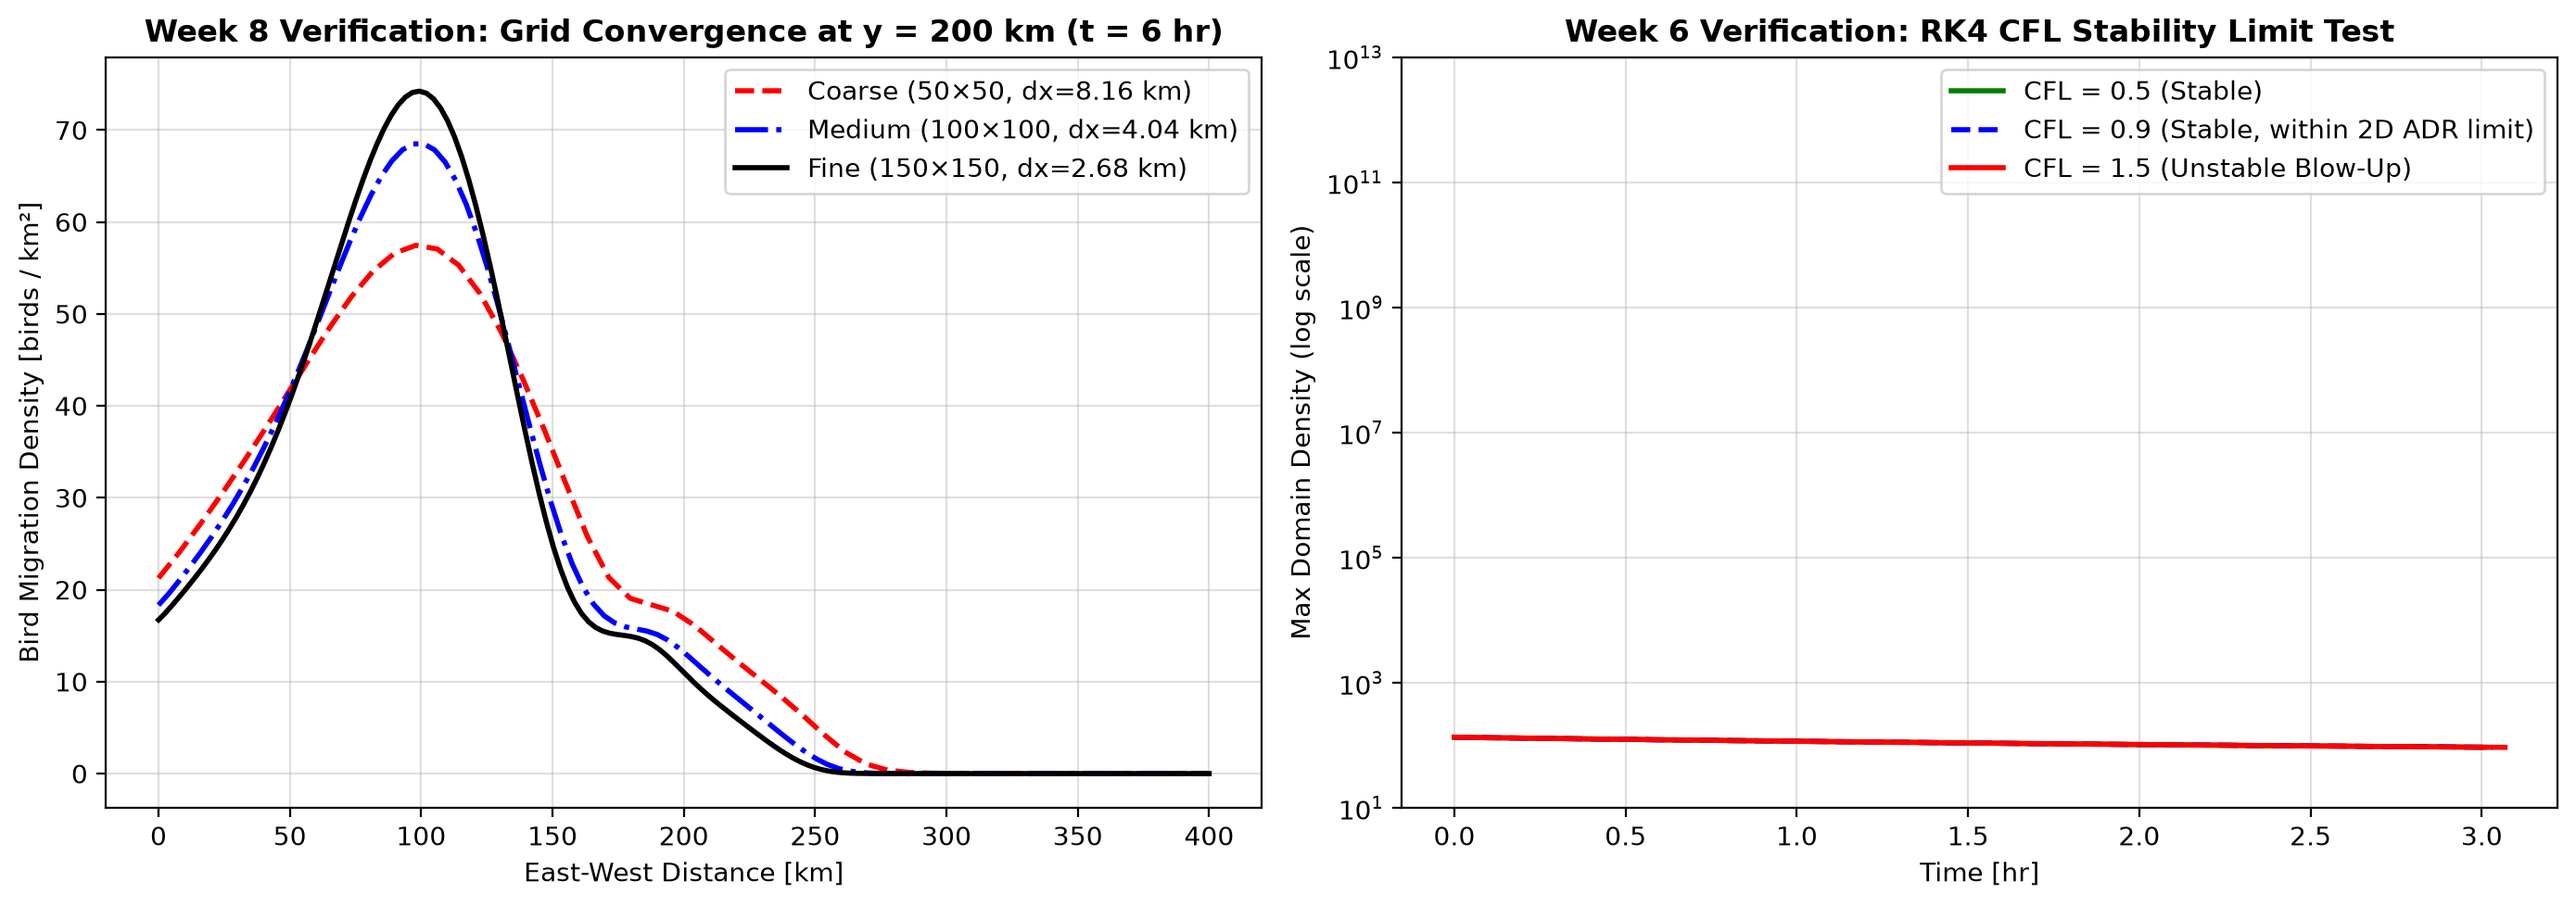
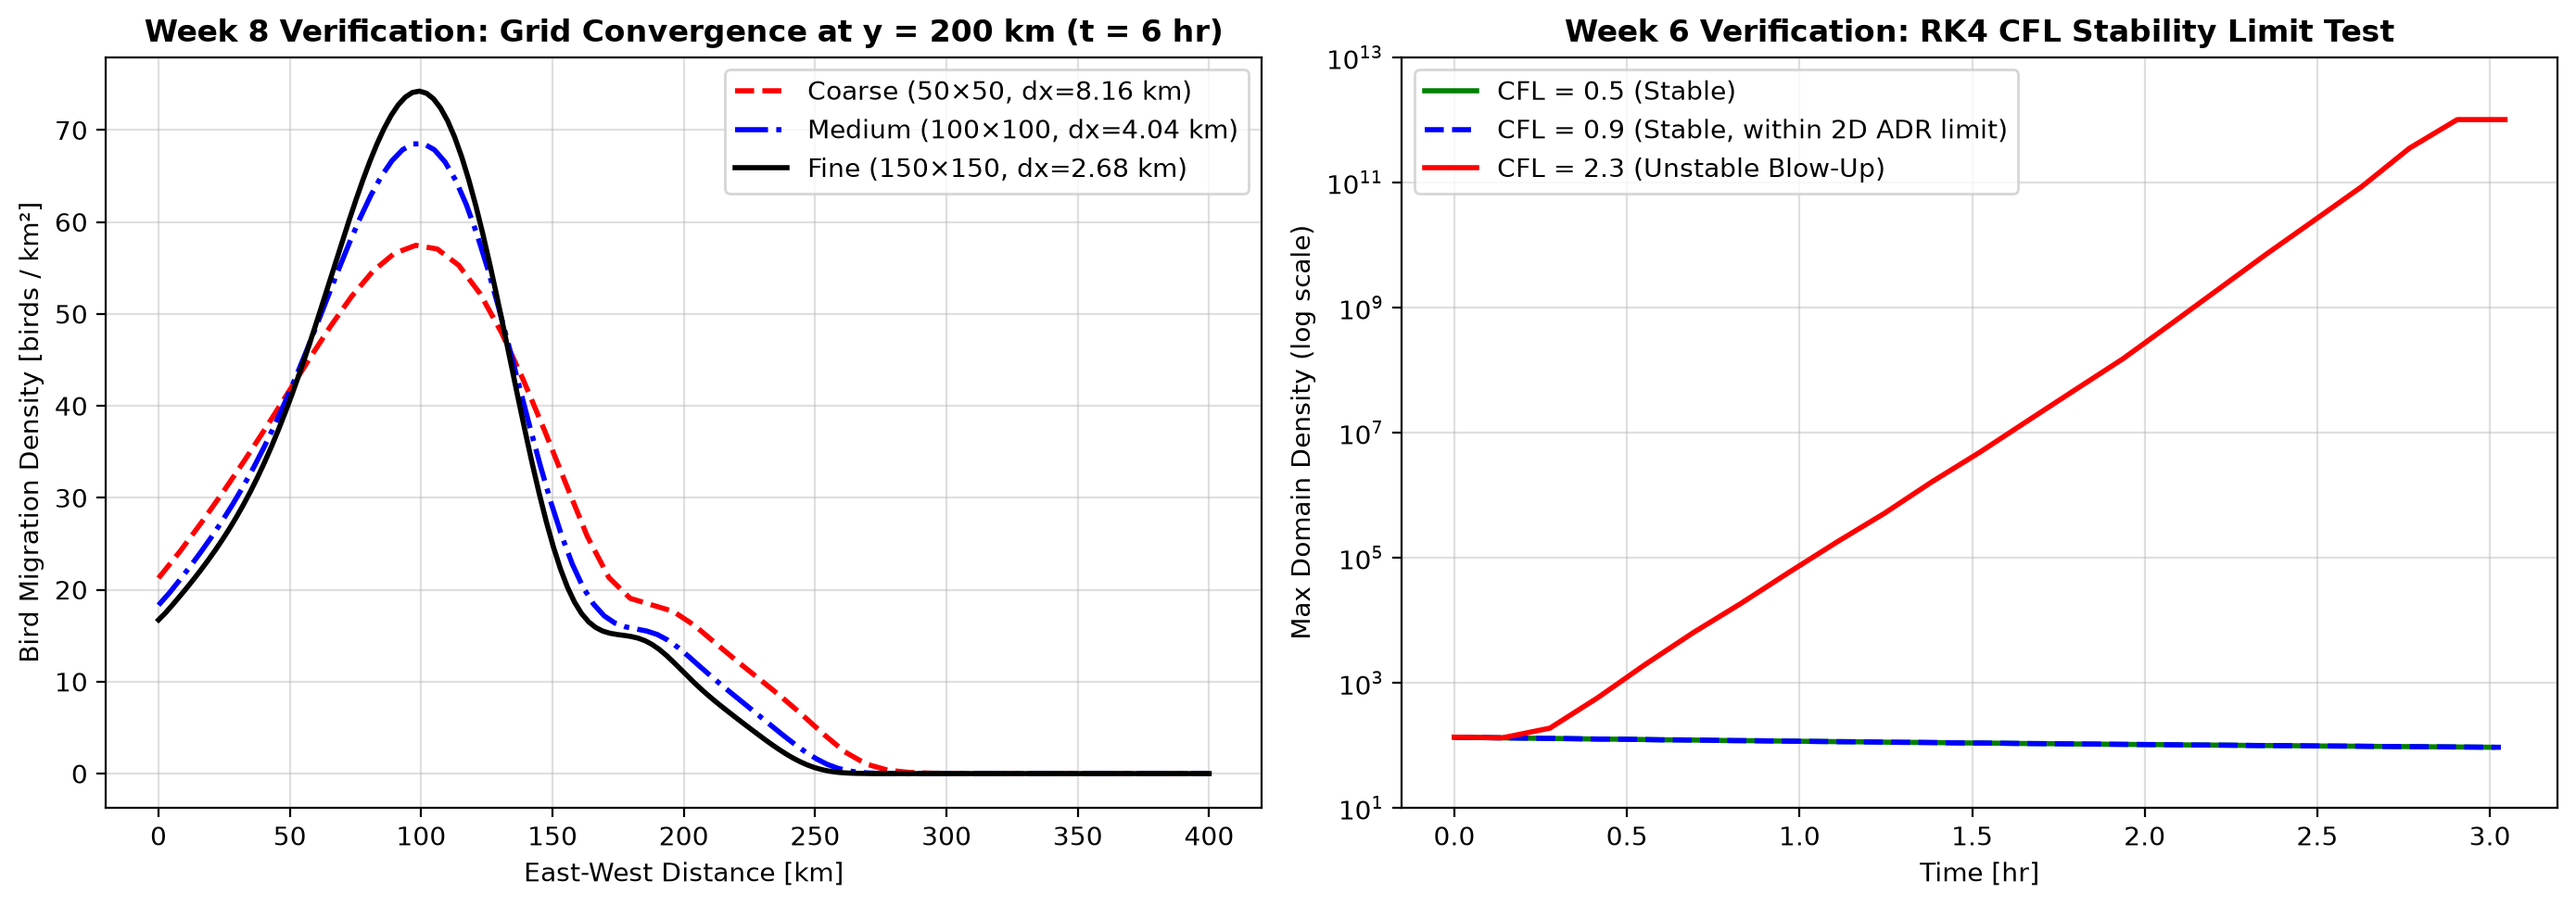
Add files via upload

diff --git a/main.py b/main.py
@@ -141,7 +141,7 @@ def run_cfd_verification():
     )
     rho0_t = dom_test.initial_density()
 
-    cfl_cases = [0.5, 0.9, 1.5]
+    cfl_cases = [0.5, 0.9, 2.3]
     cfl_histories = {}
     for cfl_val in cfl_cases:
         sol_cfl = MigrationSolver(dom_test, diffusion_coeff=8.0, cfl=cfl_val)
@@ -173,7 +173,7 @@ def run_cfd_verification():
     cfl_styles = {
         0.5: ("g-", "CFL = 0.5 (Stable)"),
         0.9: ("b--", "CFL = 0.9 (Stable, within 2D ADR limit)"),
-        1.5: ("r-", "CFL = 1.5 (Unstable Blow-Up)"),
+        2.3: ("r-", "CFL = 2.3 (Unstable Blow-Up)"),
     }
     for cfl_val in cfl_cases:
         t_arr, p_arr = cfl_histories[cfl_val]

diff --git a/README.md b/README.md
@@ -1,11 +1,11 @@
 # 2D CFD Modeling of Nocturnal Bird Migration Corridors
 **Course:** ENGR4576/5576 – Computational Fluid Dynamics  
-**Deliverable:** 5-Minute Project Progress Update & Working Prototype
+**GitHub Repository:** [EAMjavierescuela185/bird-migration-cfd](https://github.com/EAMjavierescuela185/bird-migration-cfd)
 
 ---
 
 ## 1. The Problem Statement
-Large-scale nocturnal bird migration behaves macroscopically like an active fluid continuum advected by synoptic atmospheric winds and guided by geographic boundaries. Inspired by BirdCast regional migration radar forecasts, this project develops a 2D Computational Fluid Dynamics (CFD) solver in Python to model the spatiotemporal evolution of nocturnal bird migration density $\rho(x, y, t)$ across a $400\text{ km} \times 400\text{ km}$ Mid-Atlantic flyway covering Eastern Pennsylvania, New Jersey, Delaware, and Maryland. Specifically, the model investigates how synoptic wind direction, coastline avoidance, mountain-ridge channeling, and dawn landing behavior interact to form high-density migratory bottlenecks.
+Large-scale nocturnal bird migration behaves like an active fluid continuum advected by atmospheric winds and guided by geographic boundaries. Inspired by BirdCast regional migration radar forecasts, this project develops a 2D CFD solver in Python to model the evolution of nocturnal bird migration density $\rho(x, y, t)$ across a $400\text{ km} \times 400\text{ km}$ Mid-Atlantic flyway covering Eastern Pennsylvania, New Jersey, Delaware, and Maryland. The model investigates how synoptic wind direction, coastline avoidance, mountain-ridge channeling, and dawn landing behavior interact to form high-density migratory bottlenecks.
 
 ---
 
@@ -14,48 +14,50 @@ Bird migration density $\rho(x, y, t)$ [$\text{birds/km}^2$] is governed by the 
 
 $$\frac{\partial \rho}{\partial t} + \frac{\partial (u_{\text{eff}} \rho)}{\partial x} + \frac{\partial (v_{\text{eff}} \rho)}{\partial y} = D \left( \frac{\partial^2 \rho}{\partial x^2} + \frac{\partial^2 \rho}{\partial y^2} \right) + S(x, y, t)$$
 
-* **Effective Velocity Field ($\vec{V}_{\text{eff}}$):** Combines an active southwest autumn flight heading ($\vec{V}_{\text{bird}}$ at $28\text{ km/hr}$) with partial atmospheric wind drift ($\alpha \vec{V}_{\text{wind}}$), smooth shoreline repulsion along the Atlantic Ocean and Chesapeake Bay (forming the Delmarva Peninsula), and topographic channeling along the Appalachian/Kittatinny Ridge.
-* **Spatial Discretization (Week 6):** Solved on a uniform 2D Cartesian mesh using **first-order upwind differencing** (flux splitting based on local velocity signs) for convective terms to eliminate dispersion oscillations and maintain $\rho \ge 0$, paired with **second-order central differencing** for flock dispersion ($D = 8.0\text{ km}^2/\text{hr}$).
+where $\vec{V}_{\text{eff}} = \vec{V}_{\text{bird}} + \alpha \vec{V}_{\text{wind}} + \vec{V}_{\text{coast}} + \vec{V}_{\text{ridge}}$.
+
+* **Effective Velocity Field ($\vec{V}_{\text{eff}}$):** Combines an active southwest autumn flight heading ($28\text{ km/hr}$) with partial wind drift ($\alpha \vec{V}_{\text{wind}}$), shoreline repulsion along the Atlantic Ocean and Chesapeake Bay (the Delmarva Peninsula), and topographic channeling along the Appalachian/Kittatinny Ridge.
+* **Spatial Discretization *(studied in Week 6)*:** Solved on a uniform 2D Cartesian mesh using first-order upwind differencing (flux splitting based on local velocity signs) for convective terms to eliminate dispersion oscillations and maintain $\rho \ge 0$, paired with second-order central differencing for flock dispersion ($D = 8.0\text{ km}^2/\text{hr}$).
 * **Boundary & Source Conditions:** A time-varying Dirichlet inflow boundary at the northern edge ($y = 400\text{ km}$) models migrants entering from NY and New England overnight ($t \le 5.5\text{ hr}$), zero-gradient Neumann conditions govern outflow boundaries, and a dawn landing sink term ($S < 0$ for $t \ge 6.5\text{ hr}$) depletes airborne density exclusively over land.
-* **Time Integration & Stability (Week 6):** Integrated explicitly using the **4-stage Runge-Kutta (RK4)** method with time steps bounded by the 2D advection-diffusion CFL stability criterion.
-* **Numerical Verification (Week 8):** Validated through a 3-grid convergence study ($50\times 50$, $100\times 100$, and $150\times 150$ nodes) with Richardson extrapolation and a CFL stability sweep.
+* **Time Integration & Stability *(studied in Week 6)*:** Integrated explicitly using the 4-stage Runge-Kutta (RK4) method with time steps bounded by the 2D advection-diffusion CFL stability criterion.
+* **Numerical Verification *(studied in Week 6 & Week 8)*:** Validated through a 3-grid convergence study ($50\times 50$, $100\times 100$, and $150\times 150$ nodes) with Richardson extrapolation and a CFL stability sweep.
 
 ---
 
 ## 3. What Has Been Accomplished
-* **Modular Python Codebase Built:** Implemented `domain.py` (Mid-Atlantic coastline/bay masks, Appalachian ridge profile, bounded velocity fields, and dusk stopover initial conditions), `solver.py` (2D upwind + central finite-difference residual, RK4 integrator, northern inflow BC, and dawn landing sink), and `main.py` (automated scenario comparison and verification suite).
-* **Domain & Full 9-Hour Nocturnal Simulation Completed:** Verified the Mid-Atlantic geographic domain and simulated full overnight evolution from dusk takeoff ($t = 0\text{ hr}$) through peak nocturnal passage ($t = 3\text{–}6\text{ hr}$) and post-dawn landing ($t = 9\text{ hr}$).
+* **Modular Python Solver Built:** Implemented `domain.py` (Mid-Atlantic coastline/bay masks, Appalachian ridge profile, bounded velocity fields, and dusk stopover initial conditions), `solver.py` (2D upwind + central finite-difference residual, RK4 integrator, northern inflow BC, and dawn landing sink), and `main.py` (scenario comparison and numerical verification suite).
+* **9-Hour [3 hr. frames] Nocturnal Simulation Completed:** Simulated overnight migration from dusk takeoff ($t = 0\text{ hr}$) through peak nocturnal passage ($t = 3\text{–}6\text{ hr}$) and post-dawn landing ($t = 9\text{ hr}$).
 
 ![Domain Verification](step1_domain_verification.png)
 *Figure 1: Mid-Atlantic domain geography, dusk takeoff stopover pulses (left), and bounded effective migration velocity field (right).*
 
 ![9-Hour Migration Evolution](step2_migration_evolution.png)
-*Figure 2: Spatiotemporal evolution of nocturnal bird migration density over a 9-hour cycle.*
+*Figure 2: Spatiotemporal evolution of nocturnal bird migration density over a 9-hour cycle (3-hour frames).*
 
 * **Weather Scenario Comparison Completed:** Generated comparative BirdCast-style density/vector maps (`fig1_weather_scenarios.png`) and airborne population time-series (`fig2_migration_diagnostics.png`) contrasting favorable NW tailwinds against an offshore westerly crosswind.
 
 ![Weather Scenarios](fig1_weather_scenarios.png)
-*Figure 3: Comparison of favorable NW tailwinds (Scenario A) vs. offshore westerly crosswind coastal funneling onto the Delmarva Peninsula (Scenario B) at t = 6.0 hr.*
+*Figure 3: Weather impact on nocturnal migration corridors at t = 6.0 hr comparing Scenario A (NW Tailwinds) and Scenario B (Westerly Crosswind coastal funneling onto the Delmarva Peninsula).*
 
 ![Migration Diagnostics](fig2_migration_diagnostics.png)
-*Figure 4: Total airborne migrants aloft (left) and peak flyway concentration over time (right).*
+*Figure 4: Quantitative time-series of total airborne migrants over the region (left) and peak flyway concentration vs. time (right).*
 
-* **CFD Verification Completed:** Executed a 3-grid convergence study across $50\times 50$, $100\times 100$, and $150\times 150$ meshes alongside an RK4 CFL stability sweep (`fig3_cfd_verification.png`).
+* **CFD Verification Completed:** Executed a 3-grid convergence study across $50\times 50$, $100\times 100$, and $150\times 150$ meshes alongside an RK4 CFL stability limit test (`fig3_cfd_verification.png`).
 
 ![CFD Verification](fig3_cfd_verification.png)
-*Figure 5: Week 8 grid convergence cross-section at y = 200 km (left) and Week 6 RK4 CFL stability limit verification (right).*
+*Figure 5: Week 8 grid convergence cross-section at y = 200 km (left) and Week 6 RK4 CFL stability limit test showing stable trajectories (CFL = 0.5, 0.9) vs. unstable blow-up (CFL = 2.3) (right).*
 
 ---
 
 ## 4. What Needs to Be Done
-1. **CFL Upper-Bound Refinement:** Run one additional high-CFL case (`CFL = 2.3`) in `main.py` so the RK4 instability blow-up curve is explicitly displayed alongside the stable trajectories.
-2. **Final Repository Polish:** Ensure clean code comments, docstrings, and one-command reproducibility (`python main.py`).
-3. **Final Technical Report:** Write the final report interpreting the physical flow features, Grid Convergence Index (GCI) metrics, and modeling limitations ahead of the **November 29** deadline.
+1. **CFL Upper-Bound Refinement:** Finalize documentation of the high-CFL instability case (`CFL = 2.3`) in `main.py` alongside the stable `CFL = 0.5` and `0.9` trajectories.
+2. **Update Current Data Comparison:** Incorporate current live data and metrics to simulated travel fields of a select bird species.
+3. **Final Technical Report:** Compile the final project report discussing physical flow features, Grid Convergence Index (GCI) metrics, and modeling limitations.
 
 ---
 
-## 5. What Is Stopping You (Current Bottlenecks)
-There are **no technical or software blockers**—the Python solver and visualization pipeline are fully functional and run in under 10 seconds locally. The only remaining constraints are time management before the November 29 deadline while balancing other coursework, and minor parameter polishing for the final report.
+## 5. Current Bottlenecks
+The Python solver and visualization pipeline are fully functional and execute in under 10 seconds locally. Remaining constraints include adjusting known solvers and equations to incorporate additional variables and finer fields, comparing against accurate tracking data, and further refining visualization details to resemble advanced radar forecast simulations.
 
 ---
 
@@ -67,7 +69,7 @@ There are **no technical or software blockers**—the Python solver and visualiz
 | **Medium Grid ($100\times 100$)** | $4.04\text{ km}$ | $68.6\text{ birds/km}^2$ | Resolves Appalachian ridge & Delmarva bottleneck |
 | **Fine Grid ($150\times 150$)** | $2.68\text{ km}$ | $74.2\text{ birds/km}^2$ | Monotone convergence toward continuum limit |
 
-* **Meteorological Funneling:** Under favorable NW tailwinds (Scenario A), peak density diffuses smoothly from $130\text{ birds/km}^2$ down to $\sim 79\text{ birds/km}^2$ prior to dawn as flocks spread evenly across Pennsylvania. Under strong westerly crosswinds (Scenario B), birds are advected toward the Atlantic shoreline and bottleneck onto the **Delmarva Peninsula**, increasing peak concentration to **$\sim 170\text{ birds/km}^2$** at $t = 6.5\text{ hr}$ before dawn landing depletes airborne density over land.
+Under favorable NW tailwinds (Scenario A), peak density diffuses smoothly from $130\text{ birds/km}^2$ down to $\sim 79\text{ birds/km}^2$ prior to dawn as flocks disperse evenly across Pennsylvania. Under strong westerly crosswinds (Scenario B), birds are advected toward the Atlantic shoreline and bottleneck onto the **Delmarva Peninsula**, increasing peak concentration to **$\sim 170\text{ birds/km}^2$** at $t = 6.5\text{ hr}$ before dawn landing depletes airborne density over land.
 
 ---
 
@@ -77,3 +79,4 @@ pip install -r requirements.txt
 python domain.py   # Generates step1_domain_verification.png
 python solver.py   # Generates step2_migration_evolution.png
 python main.py     # Generates fig1, fig2, fig3 and prints convergence metrics
+```
